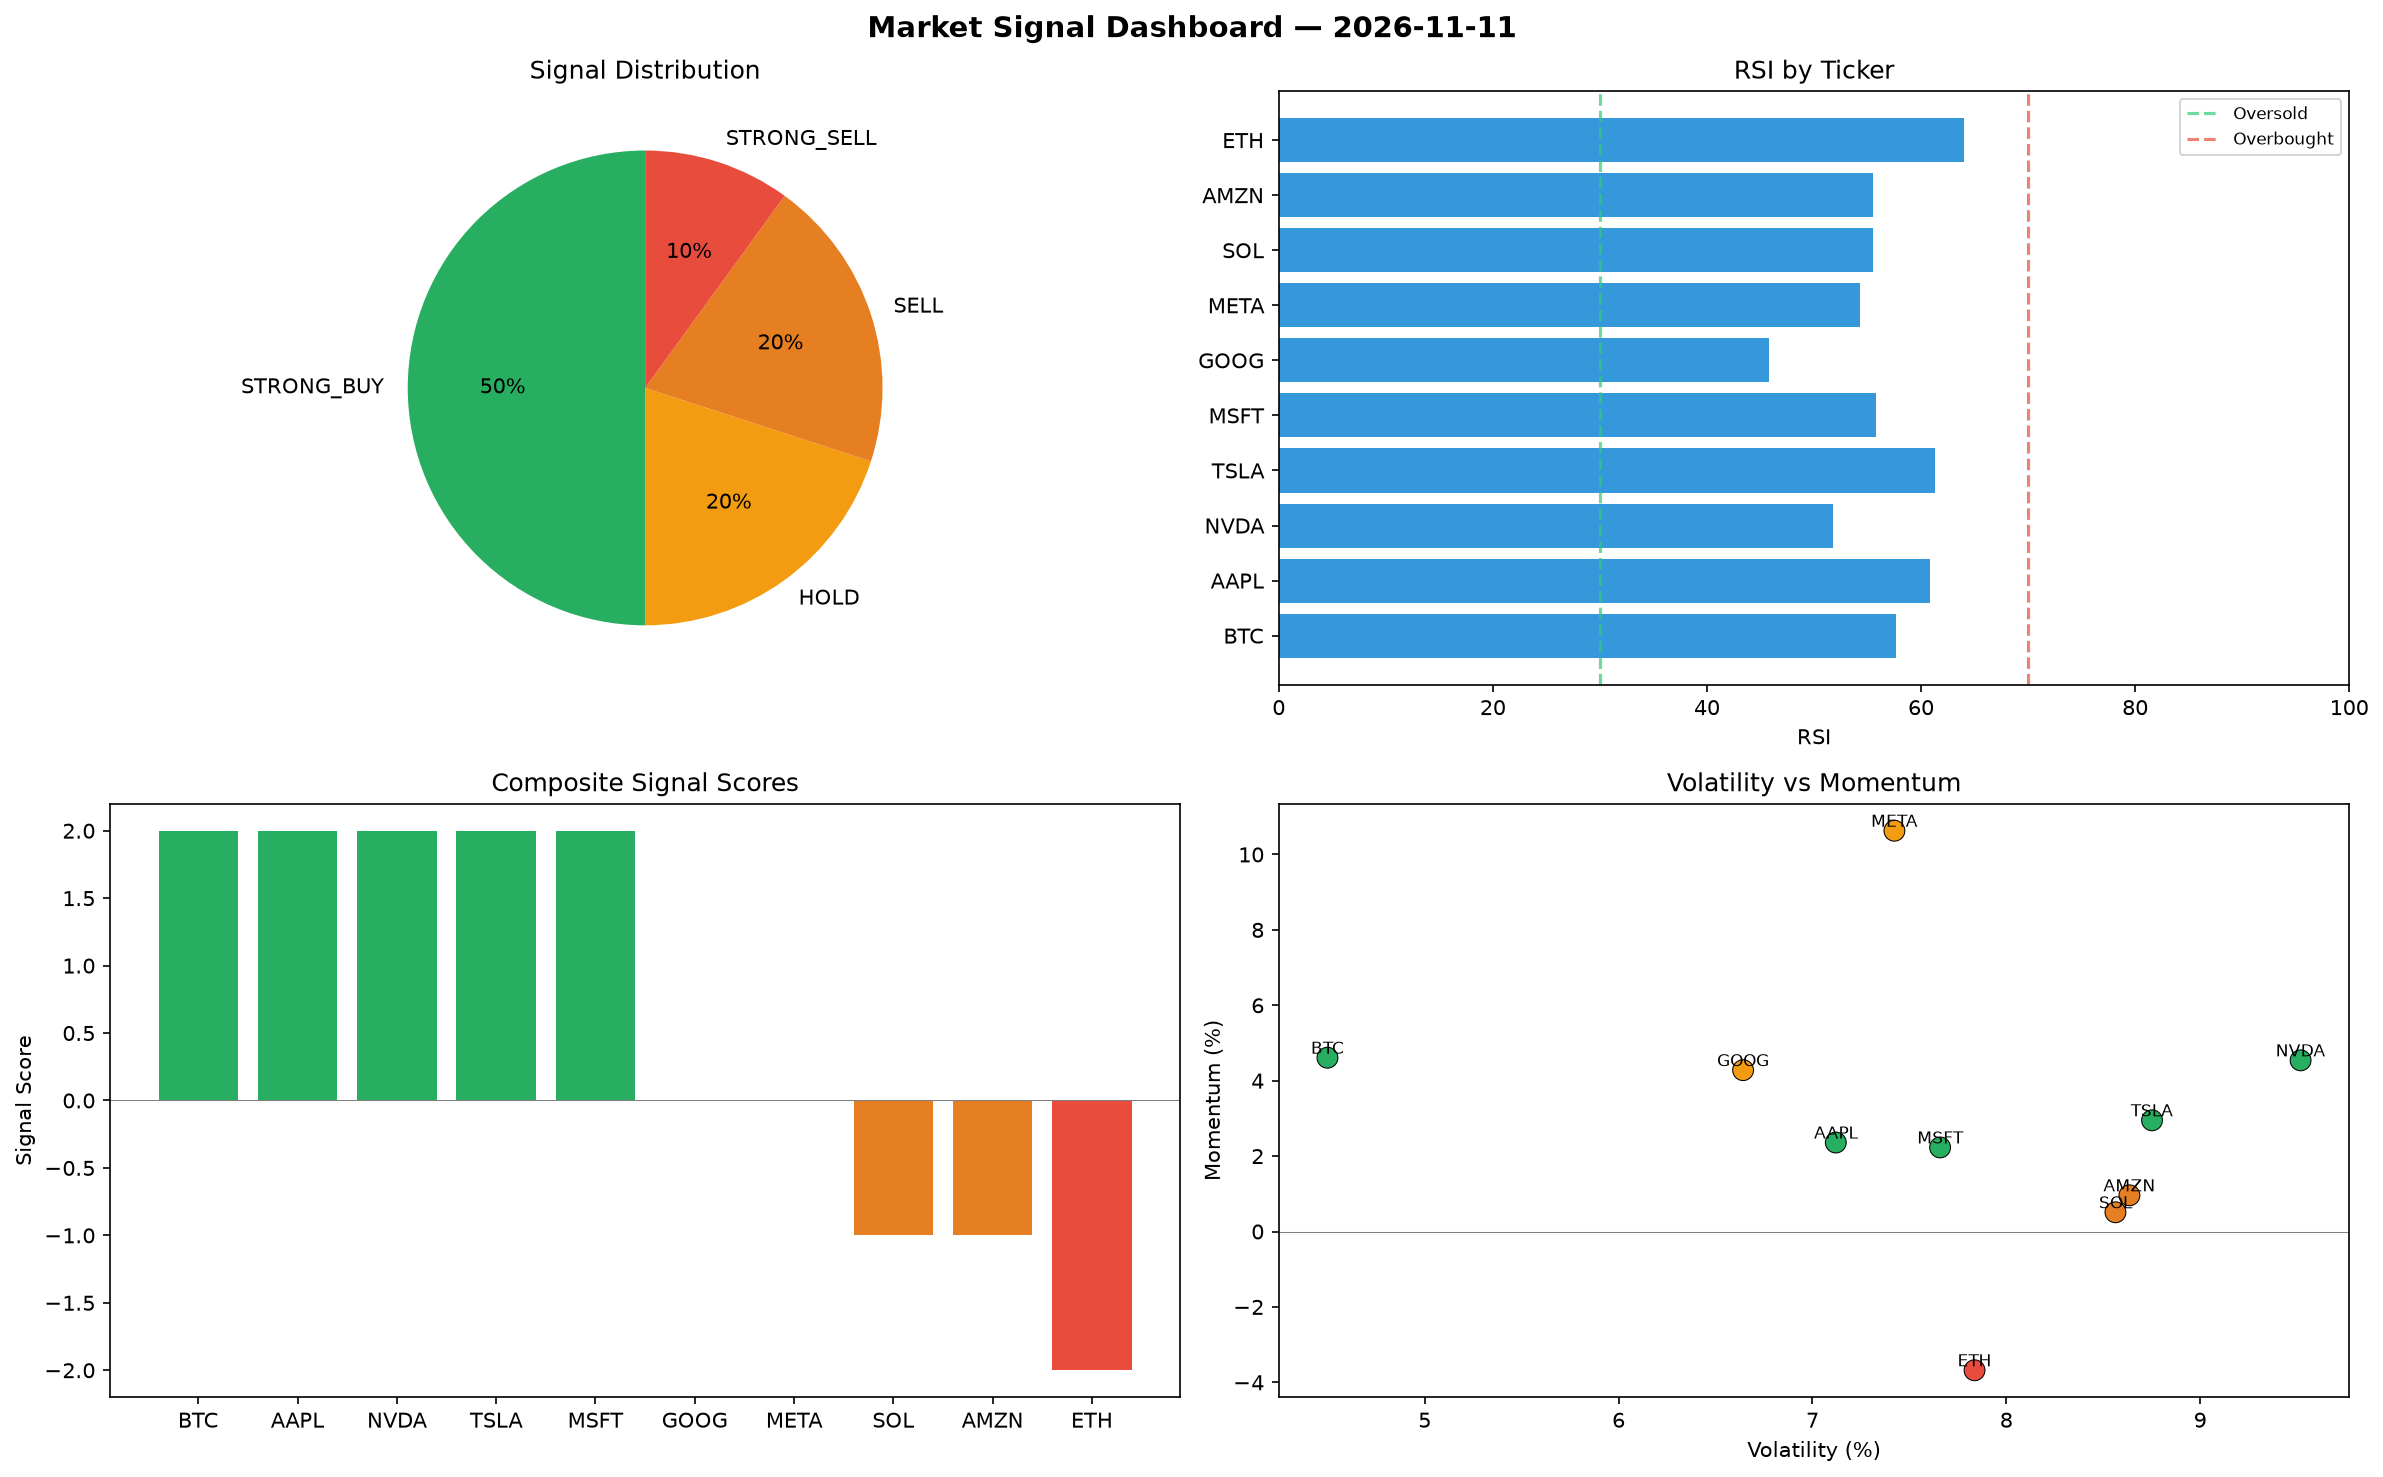
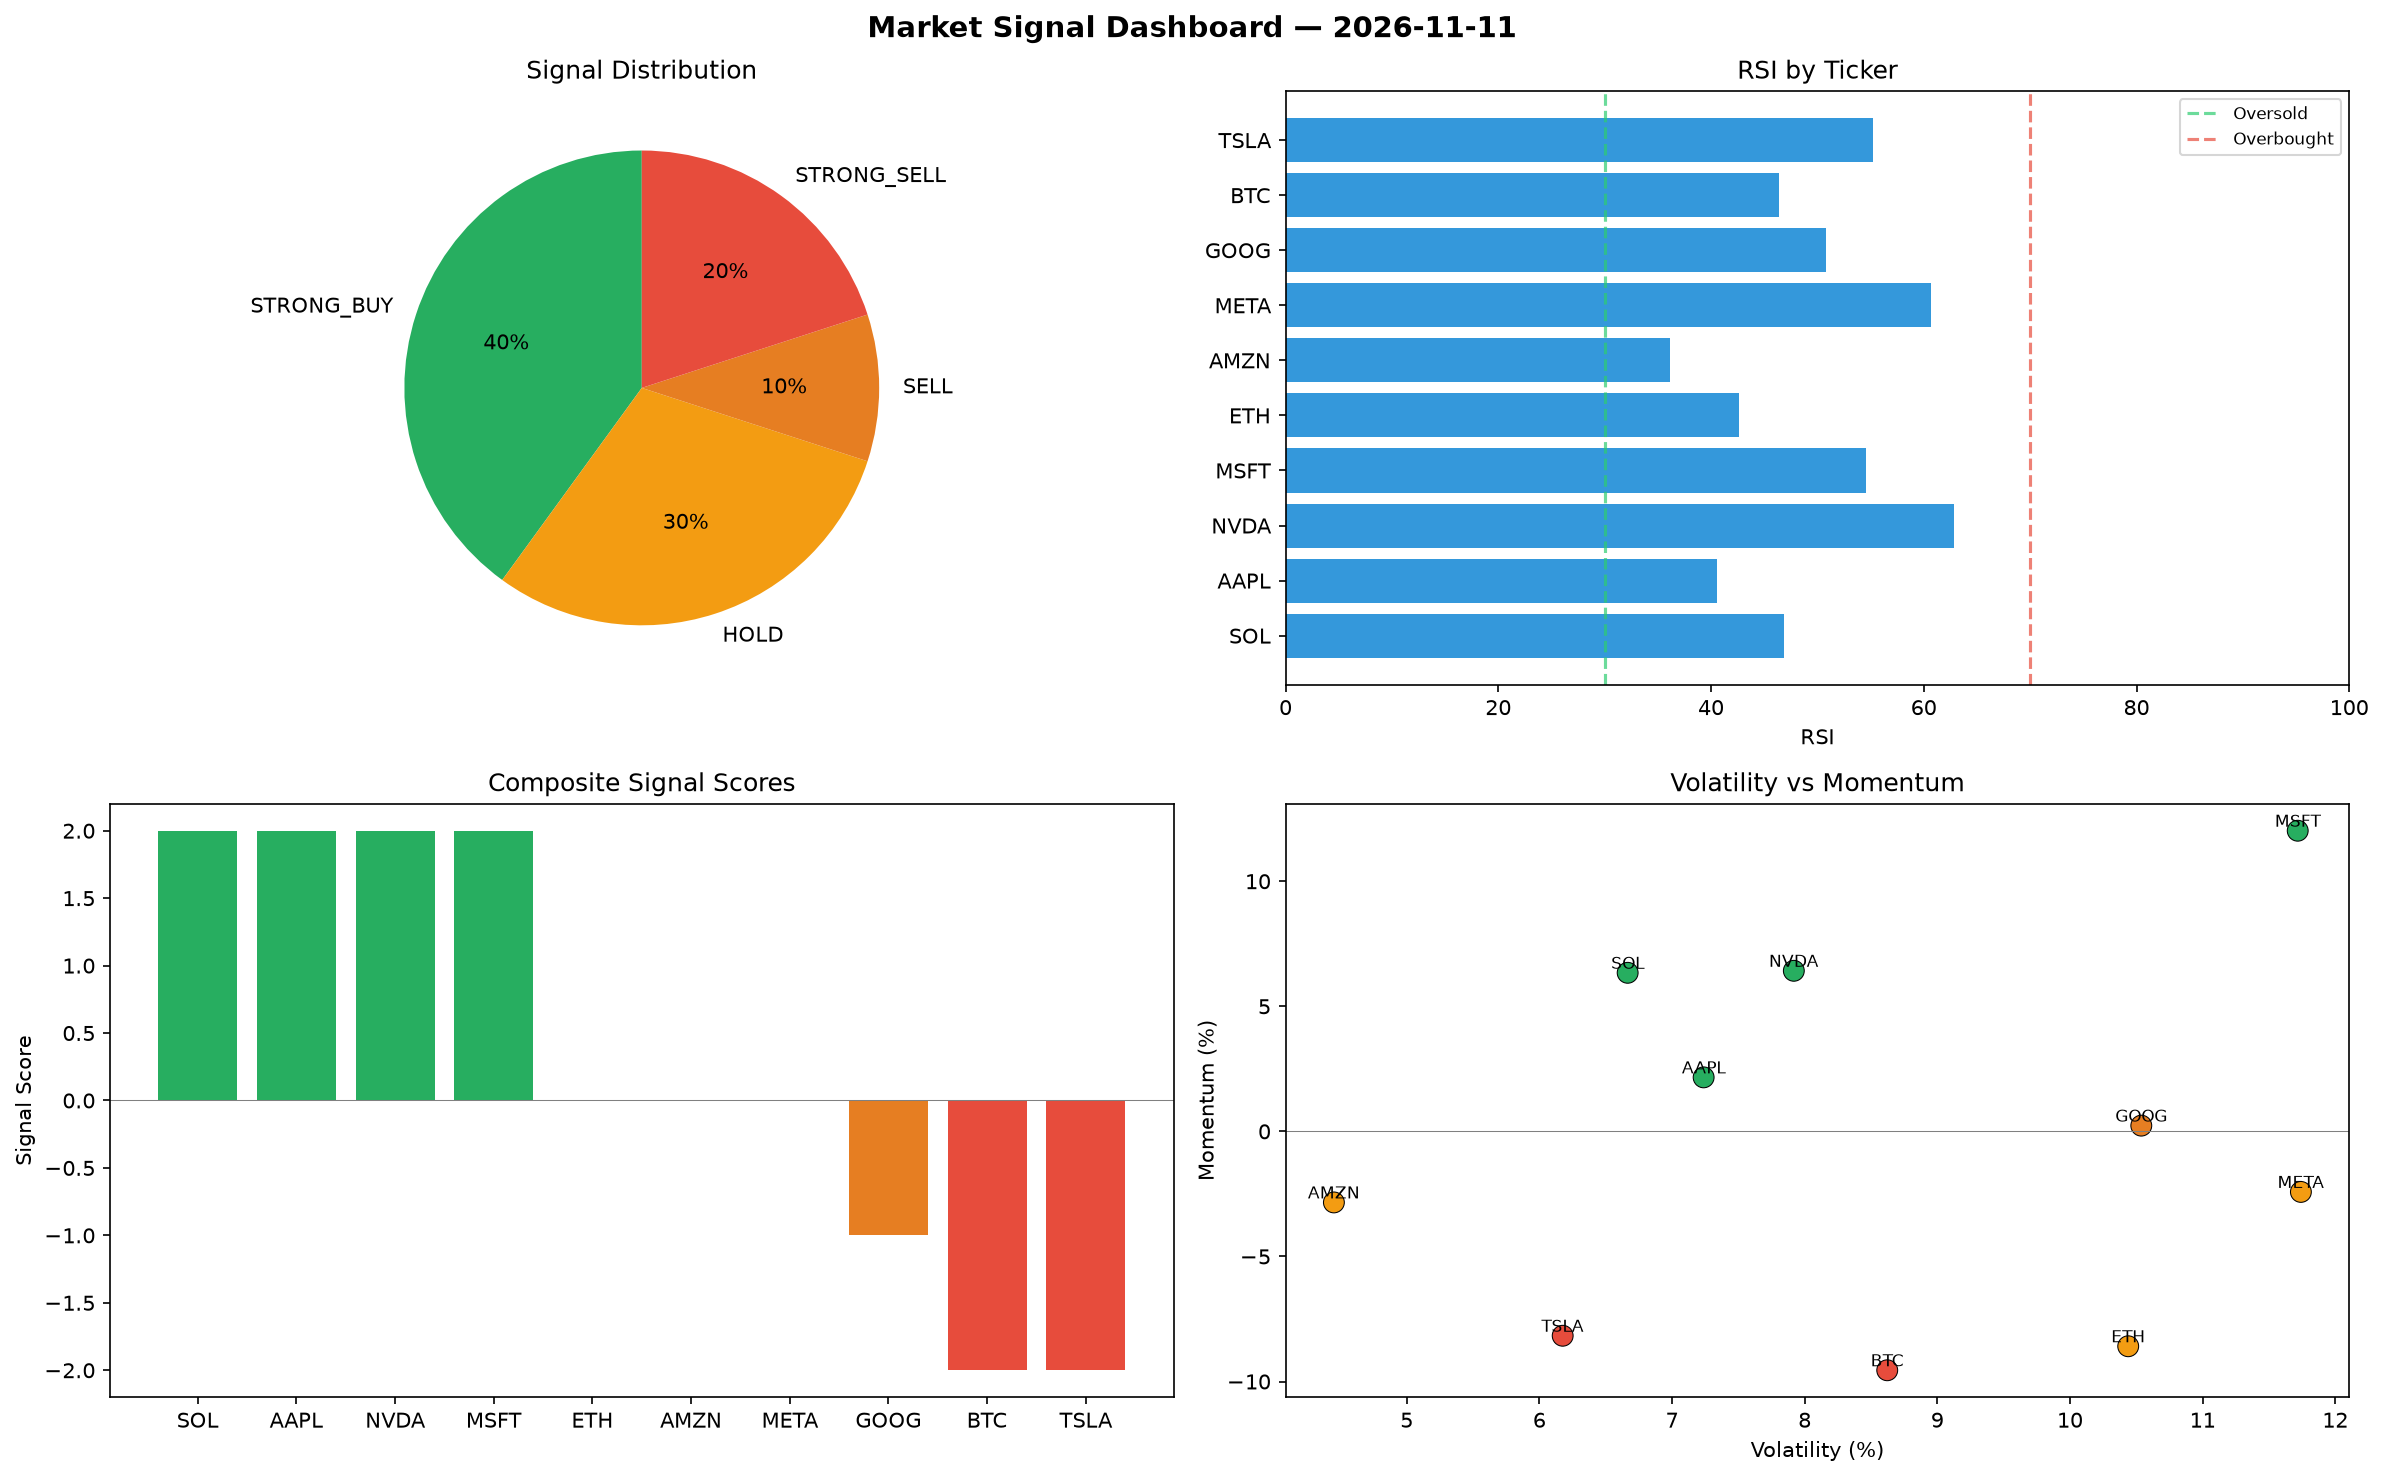
automated-bots: market signals 2026-11-11T21:29

diff --git a/logs/2026-11-11.md b/logs/2026-11-11.md
@@ -1,6 +1,6 @@
 # Market Signal Report — 2026-11-11
 
-**Run ID:** `c3b10575ee` | **Buy:** 5 | **Sell:** 3 | **Hold:** 2
+**Run ID:** `f145d603bd` | **Buy:** 4 | **Sell:** 3 | **Hold:** 3
 
 ![Dashboard](2026-11-11_dashboard.png)
 
@@ -8,28 +8,28 @@
 
 | Ticker | Price | Signal | Score | RSI | Momentum | Confidence |
 |--------|-------|--------|-------|-----|----------|------------|
-| BTC | $3940.12 | **STRONG_BUY** | 2 | 57.7 | 0.0461 | 0.5 |
-| AAPL | $370.78 | **STRONG_BUY** | 2 | 60.85 | 0.0236 | 0.5 |
-| NVDA | $1262.25 | **STRONG_BUY** | 2 | 51.76 | 0.0454 | 0.5 |
-| TSLA | $4605.16 | **STRONG_BUY** | 2 | 61.32 | 0.0295 | 0.5 |
-| MSFT | $2236.34 | **STRONG_BUY** | 2 | 55.81 | 0.0223 | 0.5 |
-| GOOG | $1458.74 | **HOLD** | 0 | 45.81 | 0.0428 | 0.0 |
-| META | $928.63 | **HOLD** | 0 | 54.31 | 0.1063 | 0.0 |
-| SOL | $3507.54 | **SELL** | -1 | 55.48 | 0.0051 | 0.25 |
-| AMZN | $1655.07 | **SELL** | -1 | 55.53 | 0.0096 | 0.25 |
-| ETH | $4077.34 | **STRONG_SELL** | -2 | 63.99 | -0.0368 | 0.5 |
+| SOL | $1707.41 | **STRONG_BUY** | 2 | 46.83 | 0.0634 | 0.5 |
+| AAPL | $2486.38 | **STRONG_BUY** | 2 | 40.52 | 0.0216 | 0.5 |
+| NVDA | $4048.37 | **STRONG_BUY** | 2 | 62.82 | 0.0642 | 0.5 |
+| MSFT | $164.45 | **STRONG_BUY** | 2 | 54.54 | 0.1202 | 0.5 |
+| ETH | $771.04 | **HOLD** | 0 | 42.59 | -0.0859 | 0.0 |
+| AMZN | $2282.07 | **HOLD** | 0 | 36.17 | -0.0284 | 0.0 |
+| META | $3967.68 | **HOLD** | 0 | 60.67 | -0.0242 | 0.0 |
+| GOOG | $1007.34 | **SELL** | -1 | 50.83 | 0.0023 | 0.25 |
+| BTC | $81.15 | **STRONG_SELL** | -2 | 46.41 | -0.0955 | 0.5 |
+| TSLA | $4216.46 | **STRONG_SELL** | -2 | 55.21 | -0.0817 | 0.5 |
 
 ## Delta vs Yesterday
 
 | Ticker | Today | Yesterday | Price Change | Signal Changed |
 |--------|-------|-----------|-------------|----------------|
-| BTC | STRONG_BUY | STRONG_BUY | 📈 2226.2% | — |
-| AAPL | STRONG_BUY | SELL | 📉 -67.61% | ⚠ YES |
-| NVDA | STRONG_BUY | BUY | 📉 -36.08% | ⚠ YES |
-| TSLA | STRONG_BUY | SELL | 📈 129.5% | ⚠ YES |
-| MSFT | STRONG_BUY | HOLD | 📈 2.82% | ⚠ YES |
-| GOOG | HOLD | HOLD | 📉 -61.55% | — |
-| META | HOLD | STRONG_BUY | 📉 -59.04% | ⚠ YES |
-| SOL | SELL | STRONG_BUY | 📈 48.85% | ⚠ YES |
-| AMZN | SELL | SELL | 📈 101.01% | — |
-| ETH | STRONG_SELL | HOLD | 📈 72.02% | ⚠ YES |
+| SOL | STRONG_BUY | STRONG_BUY | 📉 -27.54% | — |
+| AAPL | STRONG_BUY | SELL | 📈 117.22% | ⚠ YES |
+| NVDA | STRONG_BUY | BUY | 📈 105.02% | ⚠ YES |
+| MSFT | STRONG_BUY | HOLD | 📉 -92.44% | ⚠ YES |
+| ETH | HOLD | HOLD | 📉 -67.47% | — |
+| AMZN | HOLD | SELL | 📈 177.17% | ⚠ YES |
+| META | HOLD | STRONG_BUY | 📈 75.0% | ⚠ YES |
+| GOOG | SELL | HOLD | 📉 -73.45% | ⚠ YES |
+| BTC | STRONG_SELL | STRONG_BUY | 📉 -52.09% | ⚠ YES |
+| TSLA | STRONG_SELL | SELL | 📈 110.13% | ⚠ YES |
